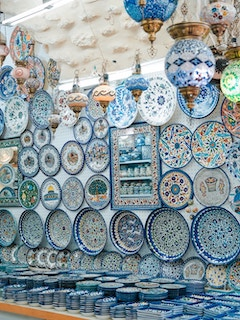
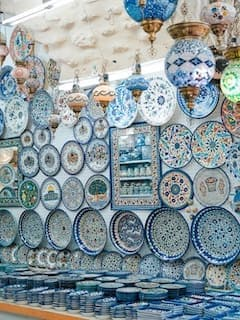
優畫圖片成 webp檔

diff --git a/index.html b/index.html
@@ -68,8 +68,8 @@
                   You are not permitted to redistribute this template on your Free CSS collection websites. Please <a rel="nofollow" href="https://templatemo.com/contact" target="_blank">contact us</a> for more information. </p>
                 </div>
                 <div class="intro-right">
-                  <img src="img/home-img-1.jpg" alt="Image" class="img-fluid intro-img-1">
-                  <img src="img/home-img-2.jpg" alt="Image" class="img-fluid intro-img-2">
+                  <img src="img/home-img-1.webp" alt="Image" class="img-fluid intro-img-1">
+                  <img src="img/home-img-2.webp" alt="Image" class="img-fluid intro-img-2">
                 </div>
                 <div class="circle intro-circle-1"></div>
                 <div class="circle intro-circle-2"></div>
@@ -90,7 +90,7 @@
               <div class="circle intro-circle-2"></div>
               <div class="mx-auto tm-border-top gallery-slider">
                 <figure class="effect-julia item">
-                    <img src="img/gallery-img-01.jpg" alt="Image">
+                    <img src="img/gallery-img-01.webp" alt="Image">
                     <figcaption>
                         <div>
                             <p>Julia dances in the deep dark</p>
@@ -99,7 +99,7 @@
                     </figcaption>
                 </figure>
                 <figure class="effect-julia item">
-                    <img src="img/gallery-img-02.jpg" alt="Image">
+                    <img src="img/gallery-img-02.webp" alt="Image">
                     <figcaption>
                         <div>
                             <p>Julia dances in the deep dark</p>
@@ -108,7 +108,7 @@
                     </figcaption>
                 </figure>
                 <figure class="effect-julia item">
-                    <img src="img/gallery-img-03.jpg" alt="Image">
+                    <img src="img/gallery-img-03.webp" alt="Image">
                     <figcaption>
                         <div>
                             <p>Julia dances in the deep dark</p>
@@ -126,7 +126,7 @@
                     </figcaption>
                 </figure>
                 <figure class="effect-julia item">
-                    <img src="img/gallery-img-05.jpg" alt="Image">
+                    <img src="img/gallery-img-05.webp" alt="Image">
                     <figcaption>
                         <div>
                             <p>Julia dances in the deep dark</p>
@@ -135,7 +135,7 @@
                     </figcaption>
                 </figure>
                 <figure class="effect-julia item">
-                    <img src="img/gallery-img-06.jpg" alt="Image">
+                    <img src="img/gallery-img-06.webp" alt="Image">
                     <figcaption>
                         <div>
                             <p>Julia dances in the deep dark</p>
@@ -144,7 +144,7 @@
                     </figcaption>
                 </figure>
                 <figure class="effect-julia item">
-                    <img src="img/gallery-img-07.jpg" alt="Image">
+                    <img src="img/gallery-img-07.webp" alt="Image">
                     <figcaption>
                         <div>
                             <p>Julia dances in the deep dark</p>
@@ -162,7 +162,7 @@
                     </figcaption>
                 </figure>
                 <figure class="effect-julia item">
-                    <img src="img/gallery-img-09.jpg" alt="Image">
+                    <img src="img/gallery-img-09.webp" alt="Image">
                     <figcaption>
                         <div>
                             <p>Julia dances in the deep dark</p>
